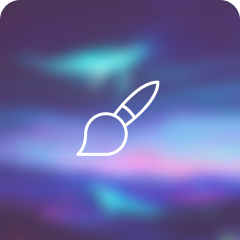
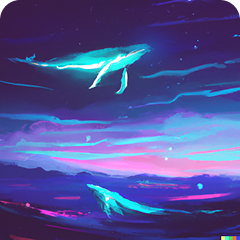
add section categories

diff --git a/index.html b/index.html
@@ -291,5 +291,73 @@
             </div>
         </div>
     </section>
+
+    <section class="categories section-padding">
+        <div class="container">
+            <h3 class="heading-h3 heading-h3_color-light">Browse Categories</h3>
+        
+
+            <div class="flex-cards-wrapper categories__cards-wrapper">
+                <a href="#" class="categories__card scale photo_radius">
+                    
+                   <div class="categories__photo-wrapper">
+                         <div class="categories__photo"></div>
+                    </div>
+
+                    <h5 class="categories__name heading-h5 heading-h5_color-light">Art</h5>
+                </a>
+
+                <a href="#" class="categories__card scale photo_radius">
+                    <div class="categories__photo-wrapper">
+                         <div class="categories__photo"></div>
+                    </div>
+                    <h5 class="categories__name heading-h5 heading-h5_color-light">Collectibles</h5>
+                </a>
+
+                <a href="#" class="categories__card scale photo_radius">
+                    <div class="categories__photo-wrapper">
+                         <div class="categories__photo"></div>
+                    </div>
+                    <h5 class="categories__name heading-h5 heading-h5_color-light">Music</h5>
+                </a>
+
+                <a href="#" class="categories__card scale photo_radius">
+                    <div class="categories__photo-wrapper">
+                         <div class="categories__photo"></div>
+                    </div>
+                    <h5 class="categories__name heading-h5 heading-h5_color-light">Photography</h5>
+                </a>
+
+                <a href="#" class="categories__card scale photo_radius">
+                    <div class="categories__photo-wrapper">
+                         <div class="categories__photo"></div>
+                    </div>
+                    <h5 class="categories__name heading-h5 heading-h5_color-light">Video</h5>
+                </a>
+
+                <a href="#" class="categories__card scale photo_radius">
+                    <div class="categories__photo-wrapper">
+                         <div class="categories__photo"></div>
+                    </div>
+                    <h5 class="categories__name heading-h5 heading-h5_color-light">Utility</h5>
+                </a>
+
+                <a href="#" class="categories__card scale photo_radius">
+                    <div class="categories__photo-wrapper">
+                         <div class="categories__photo"></div>
+                    </div>
+                    <h5 class="categories__name heading-h5 heading-h5_color-light">Sport</h5>
+                </a>
+
+                <a href="#" class="categories__card scale photo_radius">
+                    <div class="categories__photo-wrapper">
+                         <div class="categories__photo"></div>
+                    </div>
+                    <h5 class="categories__name heading-h5 heading-h5_color-light">Virtual Worlds</h5>
+                </a>
+            </div>
+
+        </div>
+    </section>
 </body>
 </html>

diff --git a/style.css b/style.css
@@ -313,3 +313,111 @@ body {
     background-color: var(--color-dark);
     color: var(--color-caption);
 }
+
+.categories__cards-wrapper {
+    margin-top: 60px;
+}
+
+.categories__card {
+    background-color: var(--color-secondary);
+    overflow: hidden;
+}
+
+.categories__name {
+    color: var(--color-light);
+    padding-top: 20px;
+    padding-bottom: 25px;
+    padding-left: 28px;
+}
+
+.categories__photo {
+    width: 240px;
+    height: 240px;
+    background-size: 100%;
+    background-repeat: no-repeat;
+    filter: blur(15px);
+    position: relative;
+}
+
+.categories__photo::after {
+    
+}
+
+.categories__photo-wrapper {
+    overflow: hidden;
+    position: relative;
+}
+
+.categories__photo-wrapper::after {
+    position: absolute;
+    top: 50%;
+    left: 50%;
+    transform: translate(-50%, -50%);
+    width: 100px;
+    height: 100px;
+}
+
+.categories__card:nth-child(1) .categories__photo-wrapper::after {
+    content: url(img/PaintBrush.png);
+}
+
+.categories__card:nth-child(2) .categories__photo-wrapper::after {
+    content: url(img/Swatches.png);
+}
+
+.categories__card:nth-child(3) .categories__photo-wrapper::after {
+    content: url(img/MusicNotes.png);
+}
+
+.categories__card:nth-child(4) .categories__photo-wrapper::after {
+    content: url(img/Camera.png);
+}
+
+.categories__card:nth-child(5) .categories__photo-wrapper::after {
+    content: url(img/VideoCamera.png);
+}
+
+.categories__card:nth-child(6) .categories__photo-wrapper::after {
+    content: url(img/MagicWand.png);
+}
+
+.categories__card:nth-child(7) .categories__photo-wrapper::after {
+    content: url(img/Basketball.png);
+}
+
+.categories__card:nth-child(8) .categories__photo-wrapper::after {
+    content: url(img/Planet.png);
+}
+
+.categories__card:nth-child(1) .categories__photo {
+    background-image: url(img/25.png);
+}
+
+.categories__card:nth-child(2) .categories__photo {
+    background-image: url(img/32.png);
+}
+
+.categories__card:nth-child(3) .categories__photo {
+    background-image: url(img/30.png);
+}
+
+.categories__card:nth-child(4) .categories__photo {
+    background-image: url(img/31.png);
+} 
+
+.categories__card:nth-child(5) .categories__photo {
+    background-image: url(img/29.png);
+}
+
+.categories__card:nth-child(6) .categories__photo {
+    background-image: url(img/28.png);
+}
+
+.categories__card:nth-child(7) .categories__photo {
+    background-image: url(img/26.png);
+} 
+
+.categories__card:nth-child(8) .categories__photo {
+    background-image: url(img/27.png);
+}
+
